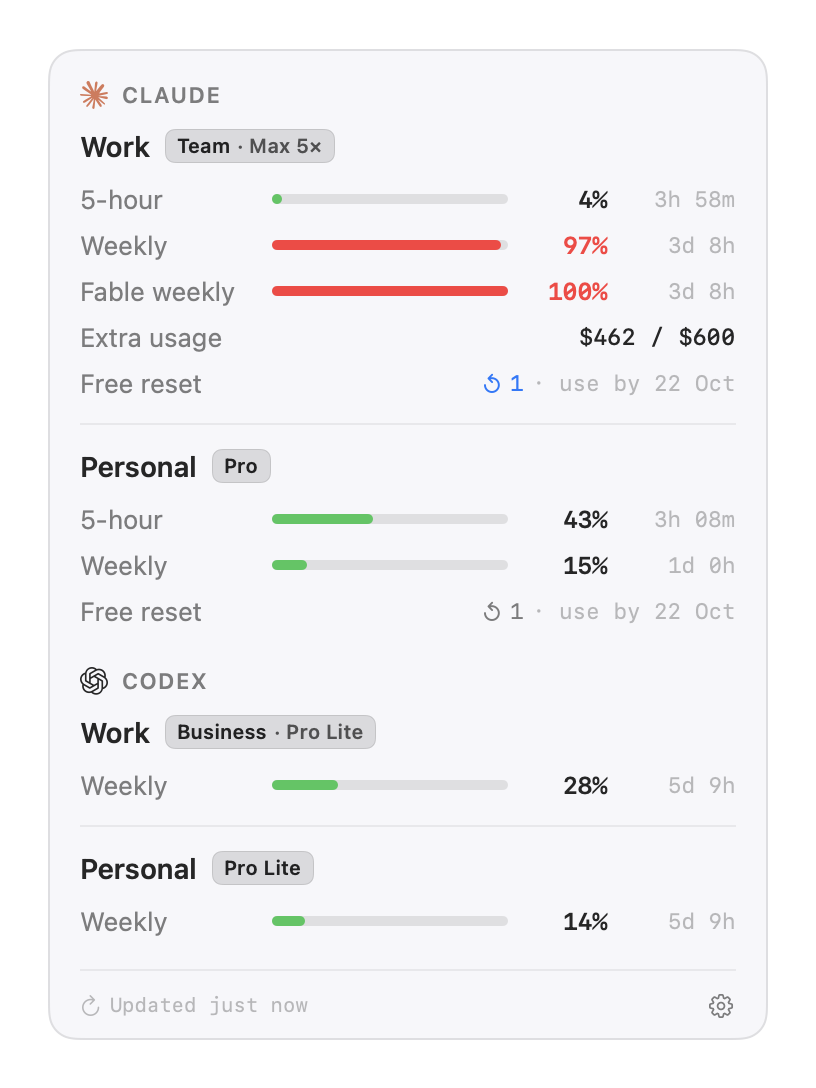
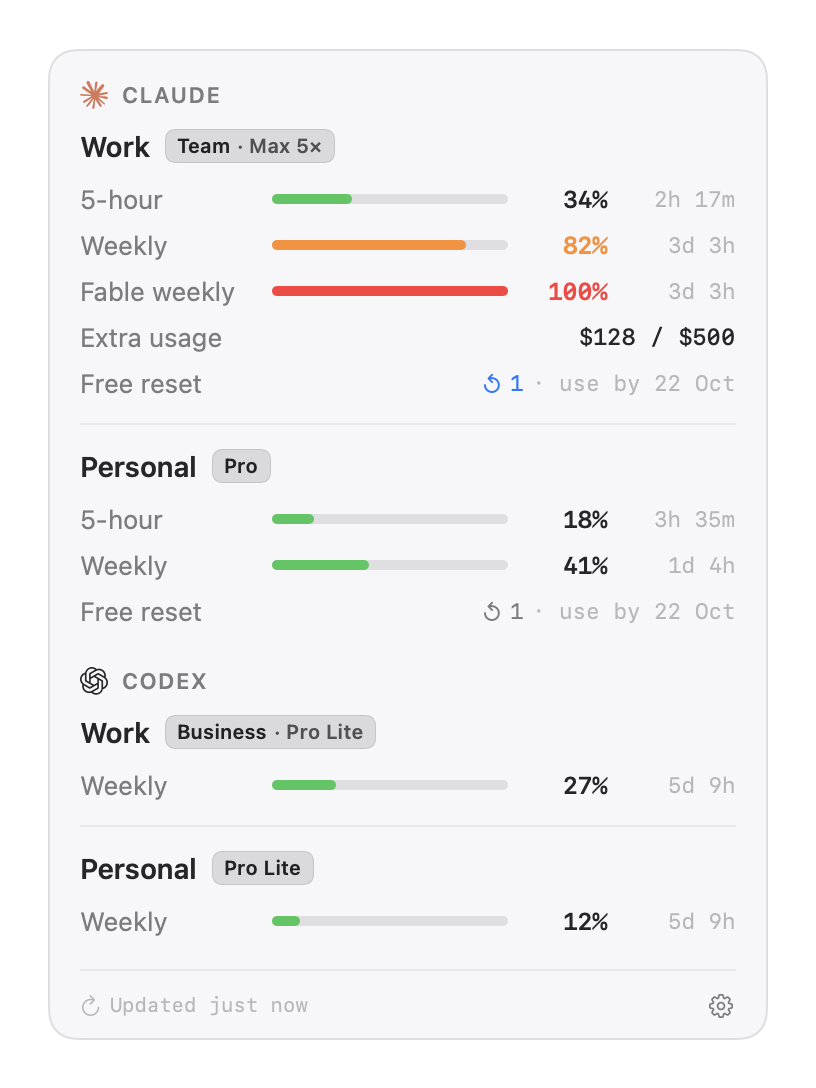
chore: prepare the repository for public release
- Claude free resets are opt-in (Settings > Claude free resets, or
  --free-resets): without it, no request identifies as Claude Code
- No personal identifiers: the signing team and bundle prefix come from
  the builder's Keychain and username (scripts/signing.sh), logs use a
  neutral "AgentUsage" subsystem, releases use io.github.insanoid
- README screenshots and test fixtures use made-up sample numbers;
  scripts/screenshots.sh renders sample data unless asked for --live
- Remove a committed Python bytecode cache that embedded a home path

diff --git a/Sources/AgentUsageUI/SampleReport.swift b/Sources/AgentUsageUI/SampleReport.swift
@@ -2,31 +2,57 @@ import AgentUsageCore
 import Foundation
 
 public extension UsageReport {
-    /// Plausible numbers for widget placeholders and the gallery preview.
+    /// Made-up but realistic numbers: the widget placeholder, the gallery
+    /// preview and the README screenshots. Never real account data.
     static func sample(now: Date = Date()) -> UsageReport {
         let hour: TimeInterval = 3600
-        func limit(_ kind: String, _ label: String, _ percent: Double, _ hours: Double) -> Limit {
-            Limit(kind: kind, label: label, percent: percent, resetsAt: now.addingTimeInterval(hours * hour))
+        func limit(_ kind: String, _ label: String, _ percent: Double, hours: Double, scope: String? = nil) -> Limit {
+            let resetsAt = now.addingTimeInterval(hours * hour)
+            return Limit(kind: kind, label: label, scope: scope, percent: percent, resetsAt: resetsAt)
         }
+        let resetsExpire = now.addingTimeInterval(6 * 24 * hour)
         return UsageReport(
             version: UsageReport.supportedVersion,
             generatedAt: now,
             accounts: [
                 Account(
                     slot: "work",
-                    label: "work",
-                    claude: AgentUsage(limits: [
-                        limit("session", "5-hour", 42, 3), limit("weekly_all", "Weekly", 78, 80),
-                    ]),
-                    codex: AgentUsage(limits: [limit("weekly_all", "Weekly", 14, 130)])
+                    label: "Work",
+                    claude: AgentUsage(
+                        limits: [
+                            limit("session", "5-hour", 34, hours: 2.3),
+                            limit("weekly_all", "Weekly", 82, hours: 76),
+                            limit("weekly_scoped", "Fable weekly", 100, hours: 76, scope: "Fable"),
+                        ],
+                        plan: "Team",
+                        planDetail: "Max 5×",
+                        spend: Spend(used: 128, limit: 500, currency: "USD", percent: 26, enabled: true),
+                        resetCredits: 1,
+                        resetCreditsExpireAt: resetsExpire
+                    ),
+                    codex: AgentUsage(
+                        limits: [limit("weekly_all", "Weekly", 27, hours: 130)],
+                        plan: "Business",
+                        planDetail: "Pro Lite"
+                    )
                 ),
                 Account(
                     slot: "personal",
-                    label: "personal",
-                    claude: AgentUsage(limits: [
-                        limit("session", "5-hour", 9, 4), limit("weekly_all", "Weekly", 12, 30),
-                    ]),
-                    codex: AgentUsage(limits: [limit("weekly_all", "Weekly", 11, 130)])
+                    label: "Personal",
+                    claude: AgentUsage(
+                        limits: [
+                            limit("session", "5-hour", 18, hours: 3.6),
+                            limit("weekly_all", "Weekly", 41, hours: 29),
+                        ],
+                        plan: "Pro",
+                        spend: Spend(used: 0, limit: 50, currency: "USD", percent: 0, enabled: false),
+                        resetCredits: 1,
+                        resetCreditsExpireAt: resetsExpire
+                    ),
+                    codex: AgentUsage(
+                        limits: [limit("weekly_all", "Weekly", 12, hours: 130)],
+                        plan: "Pro Lite"
+                    )
                 ),
             ]
         )

diff --git a/Sources/AgentUsageCore/UsageSource.swift b/Sources/AgentUsageCore/UsageSource.swift
@@ -15,6 +15,9 @@ public struct ScriptUsageSource: UsageSource {
 
     /// `defaults write <bundle id> scriptPath <path>` overrides the location.
     public static let scriptPathDefaultsKey = "scriptPath"
+    /// Settings' "Free resets" switch: passes `--free-resets` to the script,
+    /// which then identifies to Anthropic as Claude Code. Off by default.
+    public static let freeResetsDefaultsKey = "freeResetsEnabled"
 
     public let scriptURL: URL
     /// The subscriptions file passed as `--config`; nil lets the script fall
@@ -49,7 +52,7 @@ public struct ScriptUsageSource: UsageSource {
 
         let output = try await ProcessRunner.run(
             executable: URL(fileURLWithPath: "/usr/bin/env"),
-            arguments: ["python3", scriptURL.path, "--json"] + (configURL.map { ["--config", $0.path] } ?? []),
+            arguments: arguments(freeResets: UserDefaults.standard.bool(forKey: Self.freeResetsDefaultsKey)),
             environment: environment,
             timeout: Self.timeout
         )
@@ -67,6 +70,12 @@ public struct ScriptUsageSource: UsageSource {
         } catch {
             throw UsageError.unreadableOutput(String(describing: error))
         }
+    }
+
+    func arguments(freeResets: Bool) -> [String] {
+        ["python3", scriptURL.path, "--json"]
+            + (configURL.map { ["--config", $0.path] } ?? [])
+            + (freeResets ? ["--free-resets"] : [])
     }
 
     /// Whether a real Python 3 is reachable. `/usr/bin/python3` exists on

diff --git a/scripts/screenshots/main.swift b/scripts/screenshots/main.swift
@@ -2,7 +2,8 @@
 // the small, medium and large widget, each in light and dark. Run through
 // scripts/screenshots.sh, which links the app's view files next to this one.
 //
-// Usage: Screenshots <report.json> <subscriptions.json> <output-dir>
+// Usage: Screenshots <report.json | --sample> <subscriptions.json> <output-dir>
+// --sample renders UsageReport.sample(): made-up numbers, safe to publish.
 import AgentUsageCore
 import AgentUsageUI
 import AppKit
@@ -67,11 +68,13 @@ func snapshot(_ view: some View, dark: Bool, to url: URL) throws {
 func run() async throws {
     let arguments = CommandLine.arguments
     guard arguments.count == 4 else {
-        print("usage: Screenshots <report.json> <subscriptions.json> <output-dir>")
+        print("usage: Screenshots <report.json | --sample> <subscriptions.json> <output-dir>")
         exit(2)
     }
     NSApplication.shared.setActivationPolicy(.prohibited)
-    let report = try UsageReport.decode(Data(contentsOf: URL(fileURLWithPath: arguments[1])))
+    let report = arguments[1] == "--sample"
+        ? UsageReport.sample()
+        : try UsageReport.decode(Data(contentsOf: URL(fileURLWithPath: arguments[1])))
     let subscriptions = SubscriptionsModel(file: SubscriptionsFile(url: URL(fileURLWithPath: arguments[2])))
     let out = URL(fileURLWithPath: arguments[3])
     let store = UsageStore(source: FixedSource(report: report))

diff --git a/App/AgentUsage/FreeResetsRow.swift b/App/AgentUsage/FreeResetsRow.swift
@@ -1,0 +1,32 @@
+import AgentUsageCore
+import AgentUsageUI
+import SwiftUI
+
+/// Opt-in for Claude's free usage-limit resets, which Anthropic only reports
+/// to Claude Code itself.
+struct FreeResetsRow: View {
+    let store: UsageStore
+
+    @AppStorage(ScriptUsageSource.freeResetsDefaultsKey) private var enabled = false
+
+    var body: some View {
+        HStack(alignment: .center, spacing: Spacing.md) {
+            VStack(alignment: .leading, spacing: Spacing.xxs) {
+                Text("Claude free resets")
+                    .font(Typography.profile)
+                Text("Show free usage-limit resets. To read them, Agent Usage identifies itself "
+                    + "to Anthropic as Claude Code, through an undocumented API that may change.")
+                    .font(Typography.small)
+                    .foregroundStyle(.secondary)
+                    .fixedSize(horizontal: false, vertical: true)
+            }
+            Spacer(minLength: Spacing.md)
+            Toggle("Claude free resets", isOn: $enabled)
+                .toggleStyle(.switch)
+                .labelsHidden()
+                .onChange(of: enabled) {
+                    Task { await store.refresh() }
+                }
+        }
+    }
+}

diff --git a/App/AgentUsageWidget/UsageWidget.swift b/App/AgentUsageWidget/UsageWidget.swift
@@ -57,7 +57,7 @@ struct ProfileEntity: AppEntity {
 
 /// Offers the profiles in the app's last report.
 struct ProfileQuery: EntityQuery {
-    private static let logger = Logger(subsystem: "com.karthikeyaudupa.agent-usage", category: "widget")
+    private static let logger = Logger(subsystem: Log.subsystem, category: "widget")
 
     func entities(for identifiers: [ProfileEntity.ID]) async throws -> [ProfileEntity] {
         let wanted = Set(identifiers)
@@ -101,7 +101,7 @@ struct UsageEntry: TimelineEntry {
 struct UsageProvider: AppIntentTimelineProvider {
     private static let step: TimeInterval = 5 * 60
     private static let entryCount = 12
-    private static let logger = Logger(subsystem: "com.karthikeyaudupa.agent-usage", category: "widget")
+    private static let logger = Logger(subsystem: Log.subsystem, category: "widget")
 
     func placeholder(in _: Context) -> UsageEntry {
         UsageEntry(date: Date(), report: .sample(), problem: nil)

diff --git a/Tests/AgentUsageCoreTests/ScriptUsageSourceTests.swift b/Tests/AgentUsageCoreTests/ScriptUsageSourceTests.swift
@@ -95,3 +95,20 @@ struct PythonCheckTests {
         #expect(ScriptUsageSource.hasPython(environment: ["PATH": dir.path]))
     }
 }
+
+struct ScriptArgumentTests {
+    private let source = ScriptUsageSource(
+        scriptURL: URL(fileURLWithPath: "/app/agent-usage"),
+        configURL: URL(fileURLWithPath: "/support/subscriptions.json")
+    )
+
+    @Test func freeResetsAreOffUnlessAskedFor() {
+        #expect(source.arguments(freeResets: false) == [
+            "python3", "/app/agent-usage", "--json", "--config", "/support/subscriptions.json",
+        ])
+    }
+
+    @Test func freeResetsAddTheFlag() {
+        #expect(source.arguments(freeResets: true).last == "--free-resets")
+    }
+}

diff --git a/Sources/AgentUsageCore/UsageReport.swift b/Sources/AgentUsageCore/UsageReport.swift
@@ -152,4 +152,20 @@ public struct Spend: Codable, Sendable, Equatable {
     public let percent: Double?
     public let enabled: Bool
     public let disabledReason: String?
+
+    public init(
+        used: Double?,
+        limit: Double?,
+        currency: String?,
+        percent: Double?,
+        enabled: Bool,
+        disabledReason: String? = nil
+    ) {
+        self.used = used
+        self.limit = limit
+        self.currency = currency
+        self.percent = percent
+        self.enabled = enabled
+        self.disabledReason = disabledReason
+    }
 }

diff --git a/App/AgentUsage/SubscriptionsModel.swift b/App/AgentUsage/SubscriptionsModel.swift
@@ -13,7 +13,7 @@ final class SubscriptionsModel {
 
     let file: SubscriptionsFile
     private let onChange: @MainActor () -> Void
-    private static let logger = Logger(subsystem: "com.karthikeyaudupa.agent-usage", category: "subscriptions")
+    private static let logger = Logger(subsystem: Log.subsystem, category: "subscriptions")
 
     /// Installs the bundled default configuration on first run, then loads.
     init(file: SubscriptionsFile = .standard(), onChange: @escaping @MainActor () -> Void = {}) {

diff --git a/Sources/AgentUsageUI/ProviderLogo.swift b/Sources/AgentUsageUI/ProviderLogo.swift
@@ -60,7 +60,7 @@ public enum AppGlyph {
 /// Loads each SVG once. NSImage reads SVG natively, which works the same in
 /// `swift build` and Xcode builds — an asset catalog only compiles in Xcode.
 private enum LogoCache {
-    private static let logger = Logger(subsystem: "com.karthikeyaudupa.agent-usage", category: "logo")
+    private static let logger = Logger(subsystem: Log.subsystem, category: "logo")
 
     @MainActor private static var images: [String: NSImage] = [:]
 

diff --git a/App/AgentUsage/LoginItem.swift b/App/AgentUsage/LoginItem.swift
@@ -1,8 +1,9 @@
+import AgentUsageCore
 import os
 import ServiceManagement
 
 enum LoginItem {
-    private static let logger = Logger(subsystem: "com.karthikeyaudupa.agent-usage", category: "login-item")
+    private static let logger = Logger(subsystem: Log.subsystem, category: "login-item")
 
     /// Re-registers the login item when it is on, so it follows the app after
     /// an install moves it (for example from ~/Applications to /Applications).

diff --git a/Sources/AgentUsageCore/UsageStore.swift b/Sources/AgentUsageCore/UsageStore.swift
@@ -19,7 +19,7 @@ public final class UsageStore {
     public private(set) var isRefreshing = false
     public private(set) var lastSuccess: Date?
 
-    private static let logger = Logger(subsystem: "com.karthikeyaudupa.agent-usage", category: "refresh")
+    private static let logger = Logger(subsystem: Log.subsystem, category: "refresh")
 
     private let source: UsageSource
     private let onReport: @MainActor (UsageReport) -> Void

diff --git a/App/AgentUsage/AgentUsageApp.swift b/App/AgentUsage/AgentUsageApp.swift
@@ -39,7 +39,7 @@ struct AgentUsageApp: App {
 
 /// Hands each fresh report to the widget through the shared App Group cache.
 enum WidgetBridge {
-    private static let logger = Logger(subsystem: "com.karthikeyaudupa.agent-usage", category: "widget")
+    private static let logger = Logger(subsystem: Log.subsystem, category: "widget")
 
     /// The report saved by the last run, so a restart does not start blank.
     @MainActor
